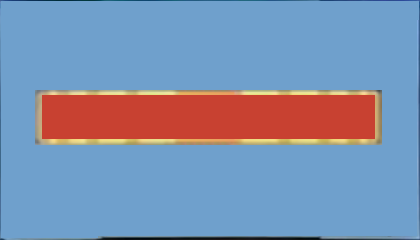
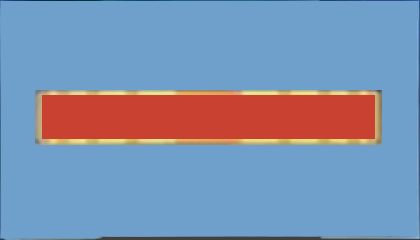
Added skew.

Changed region(s): [[0.2167, 0.9917, 0.8667, 1.0], [0.9286, 0.9917, 1.0, 1.0]]

diff --git a/public/table.js b/public/table.js
@@ -126,15 +126,21 @@ JW.extend(Table, JW.UI.Component, {
 		var ufactor = JW.mod(factor, 2);
 		var sfactor = JW.smod(factor, 2);
 		var radius = this.el.width() / 2;
+		var xface = -Math.sin(Math.PI * sfactor / 2);
+		var xback = Math.cos(Math.PI * ufactor / 2);
 		
-		Util.setTransform(this.getElement("face"), "scaleX(" + Math.min(1, 0.005 + Math.cos(Math.PI * sfactor / 2)) + ")");
-		Util.setTransform(this.getElement("back"), "scaleX(" + Math.min(1, 0.005 + Math.sin(Math.PI * ufactor / 2)) + ")");
+		Util.setTransform(this.getElement("face"),
+			"skewY(" + (5 * xface) + "deg) " +
+			"scaleX(" + Math.min(1, 0.005 + Math.cos(Math.PI * sfactor / 2)) + ")");
+		Util.setTransform(this.getElement("back"),
+			"skewY(" + (5 * xback) + "deg) " +
+			"scaleX(" + Math.min(1, 0.005 + Math.sin(Math.PI * ufactor / 2)) + ")");
 		
 		this.getElement("face-mask").css("opacity", .8 * (1 - Math.cos(Math.PI * sfactor / 2)));
 		this.getElement("back-mask").css("opacity", .8 * (1 - Math.sin(Math.PI * ufactor / 2)));
 		
-		this.getElement("face").css("left", -(radius * Math.sin(Math.PI * sfactor / 2)) + "px");
-		this.getElement("back").css("left", (radius * Math.cos(Math.PI * ufactor / 2)) + "px");
+		this.getElement("face").css("left", (radius * xface) + "px");
+		this.getElement("back").css("left", (radius * xback) + "px");
 	}
 });
 

diff --git a/public/styles.css b/public/styles.css
@@ -12,15 +12,15 @@ html {
 .table {
 	position: absolute;
 	left: 168px;
-	top: 122px;
+	top: 82px;
 	width: 420px;
-	height: 240px;
+	height: 280px;
 	overflow: hidden;
 }
 .table-back {
 	position: absolute;
 	left: 0;
-	top: 0;
+	top: 40px;
 	width: 420px;
 	height: 240px;
 	background: transparent url(images/table.png) no-repeat 0 0;
@@ -28,7 +28,7 @@ html {
 .table-face {
 	position: absolute;
 	left: 0;
-	top: 0;
+	top: 40px;
 	width: 420px;
 	height: 240px;
 	background: transparent url(images/table-back.png) no-repeat 0 0;

diff --git a/public/data.js b/public/data.js
@@ -2,7 +2,7 @@
 	answerCount  : 6,
 	maxPenalty   : 3,
 	msAnswerOpen : 600,
-	msTableRoll  : 2000,
+	msTableRoll  : 4000,
 	
 	answers : [
 		[
